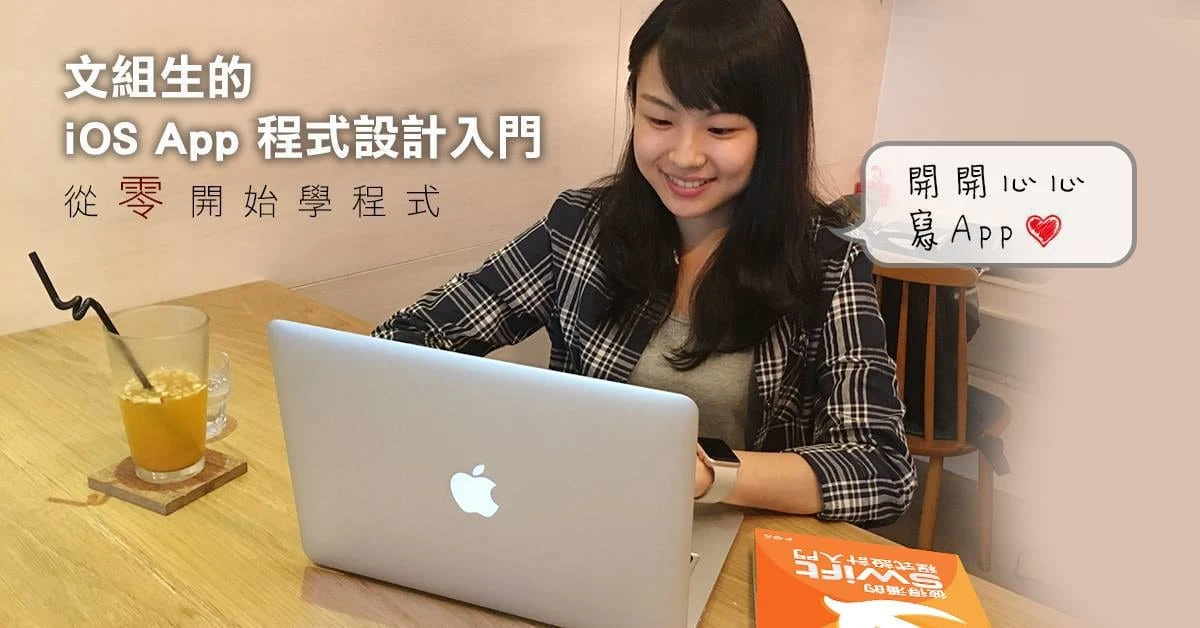
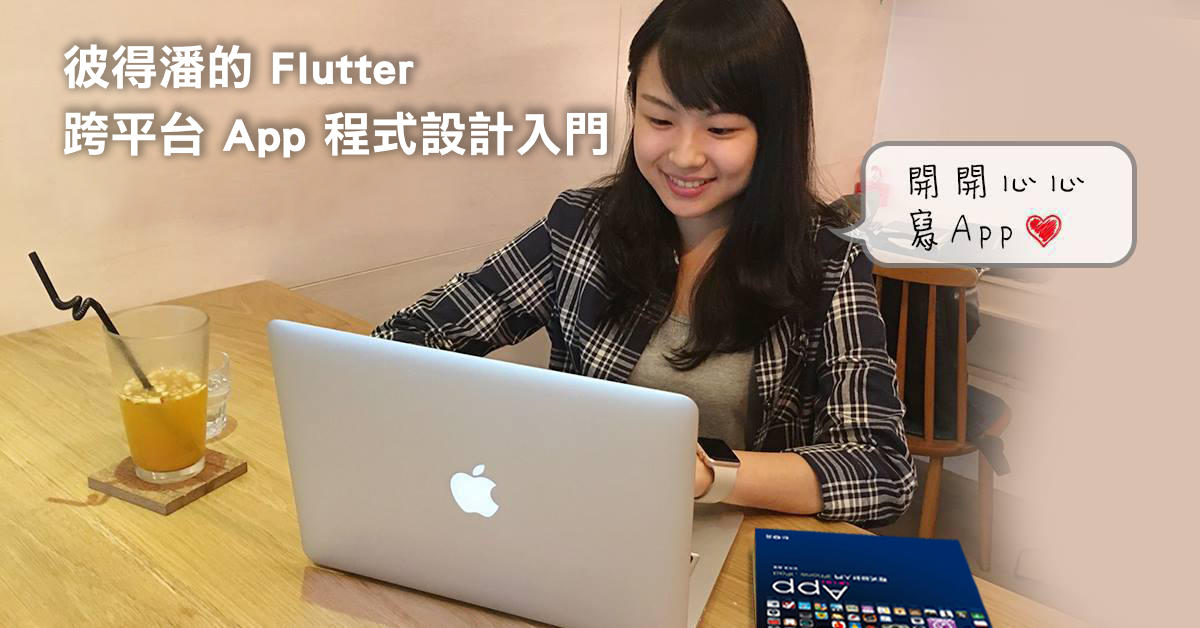
chore: migrate domain to p207.app and update flutter og metadata
- Migrate site URL from neverland.swift.moe to p207.app
- Update og:description for Flutter Advanced course
- Replace og:image for Flutter Advanced with new banner
- Add route-aware footer namespace detection
- Update footer copyright text across all course sites

Changed region(s): [[0.0308, 0.0605, 0.5242, 0.3631], [0.6167, 0.8169, 0.8325, 1.0], [0.8325, 0.3328, 0.8942, 0.3933]]

diff --git a/src/app/(flutter)/courses/flutter/advanced/layout.tsx b/src/app/(flutter)/courses/flutter/advanced/layout.tsx
@@ -4,7 +4,7 @@ import { SITE_URL, buildMetadata } from '@/app/metadata'
 const baseMeta = buildMetadata({
   title: '彼得潘的 Flutter 跨平台 App 程式設計入門 | 彼得潘',
   description:
-    '為文組生量身訂做，10 週每週一晚，從零開始學程式，開心寫出 iOS / Android 的 Flutter App。',
+    '彼得潘帶你學 Flutter 跨平台 App 開發，用一套程式做出 iOS 與 Android App，成為酷炫的 App 開發魔法師。',
   path: '/courses/flutter/advanced',
 })
 
@@ -34,7 +34,7 @@ export const metadata: Metadata = {
     images: [ogImage],
     title: '彼得潘的 Flutter 跨平台 App 程式設計入門 | 彼得潘',
     description:
-      '為文組生量身訂做，10 週每週一晚，從零開始學程式，開心寫出 iOS / Android 的 Flutter App。',
+      '彼得潘帶你學 Flutter 跨平台 App 開發，用一套程式做出 iOS 與 Android App，成為酷炫的 App 開發魔法師。',
   },
   manifest: manifestUrl,
   icons: {
